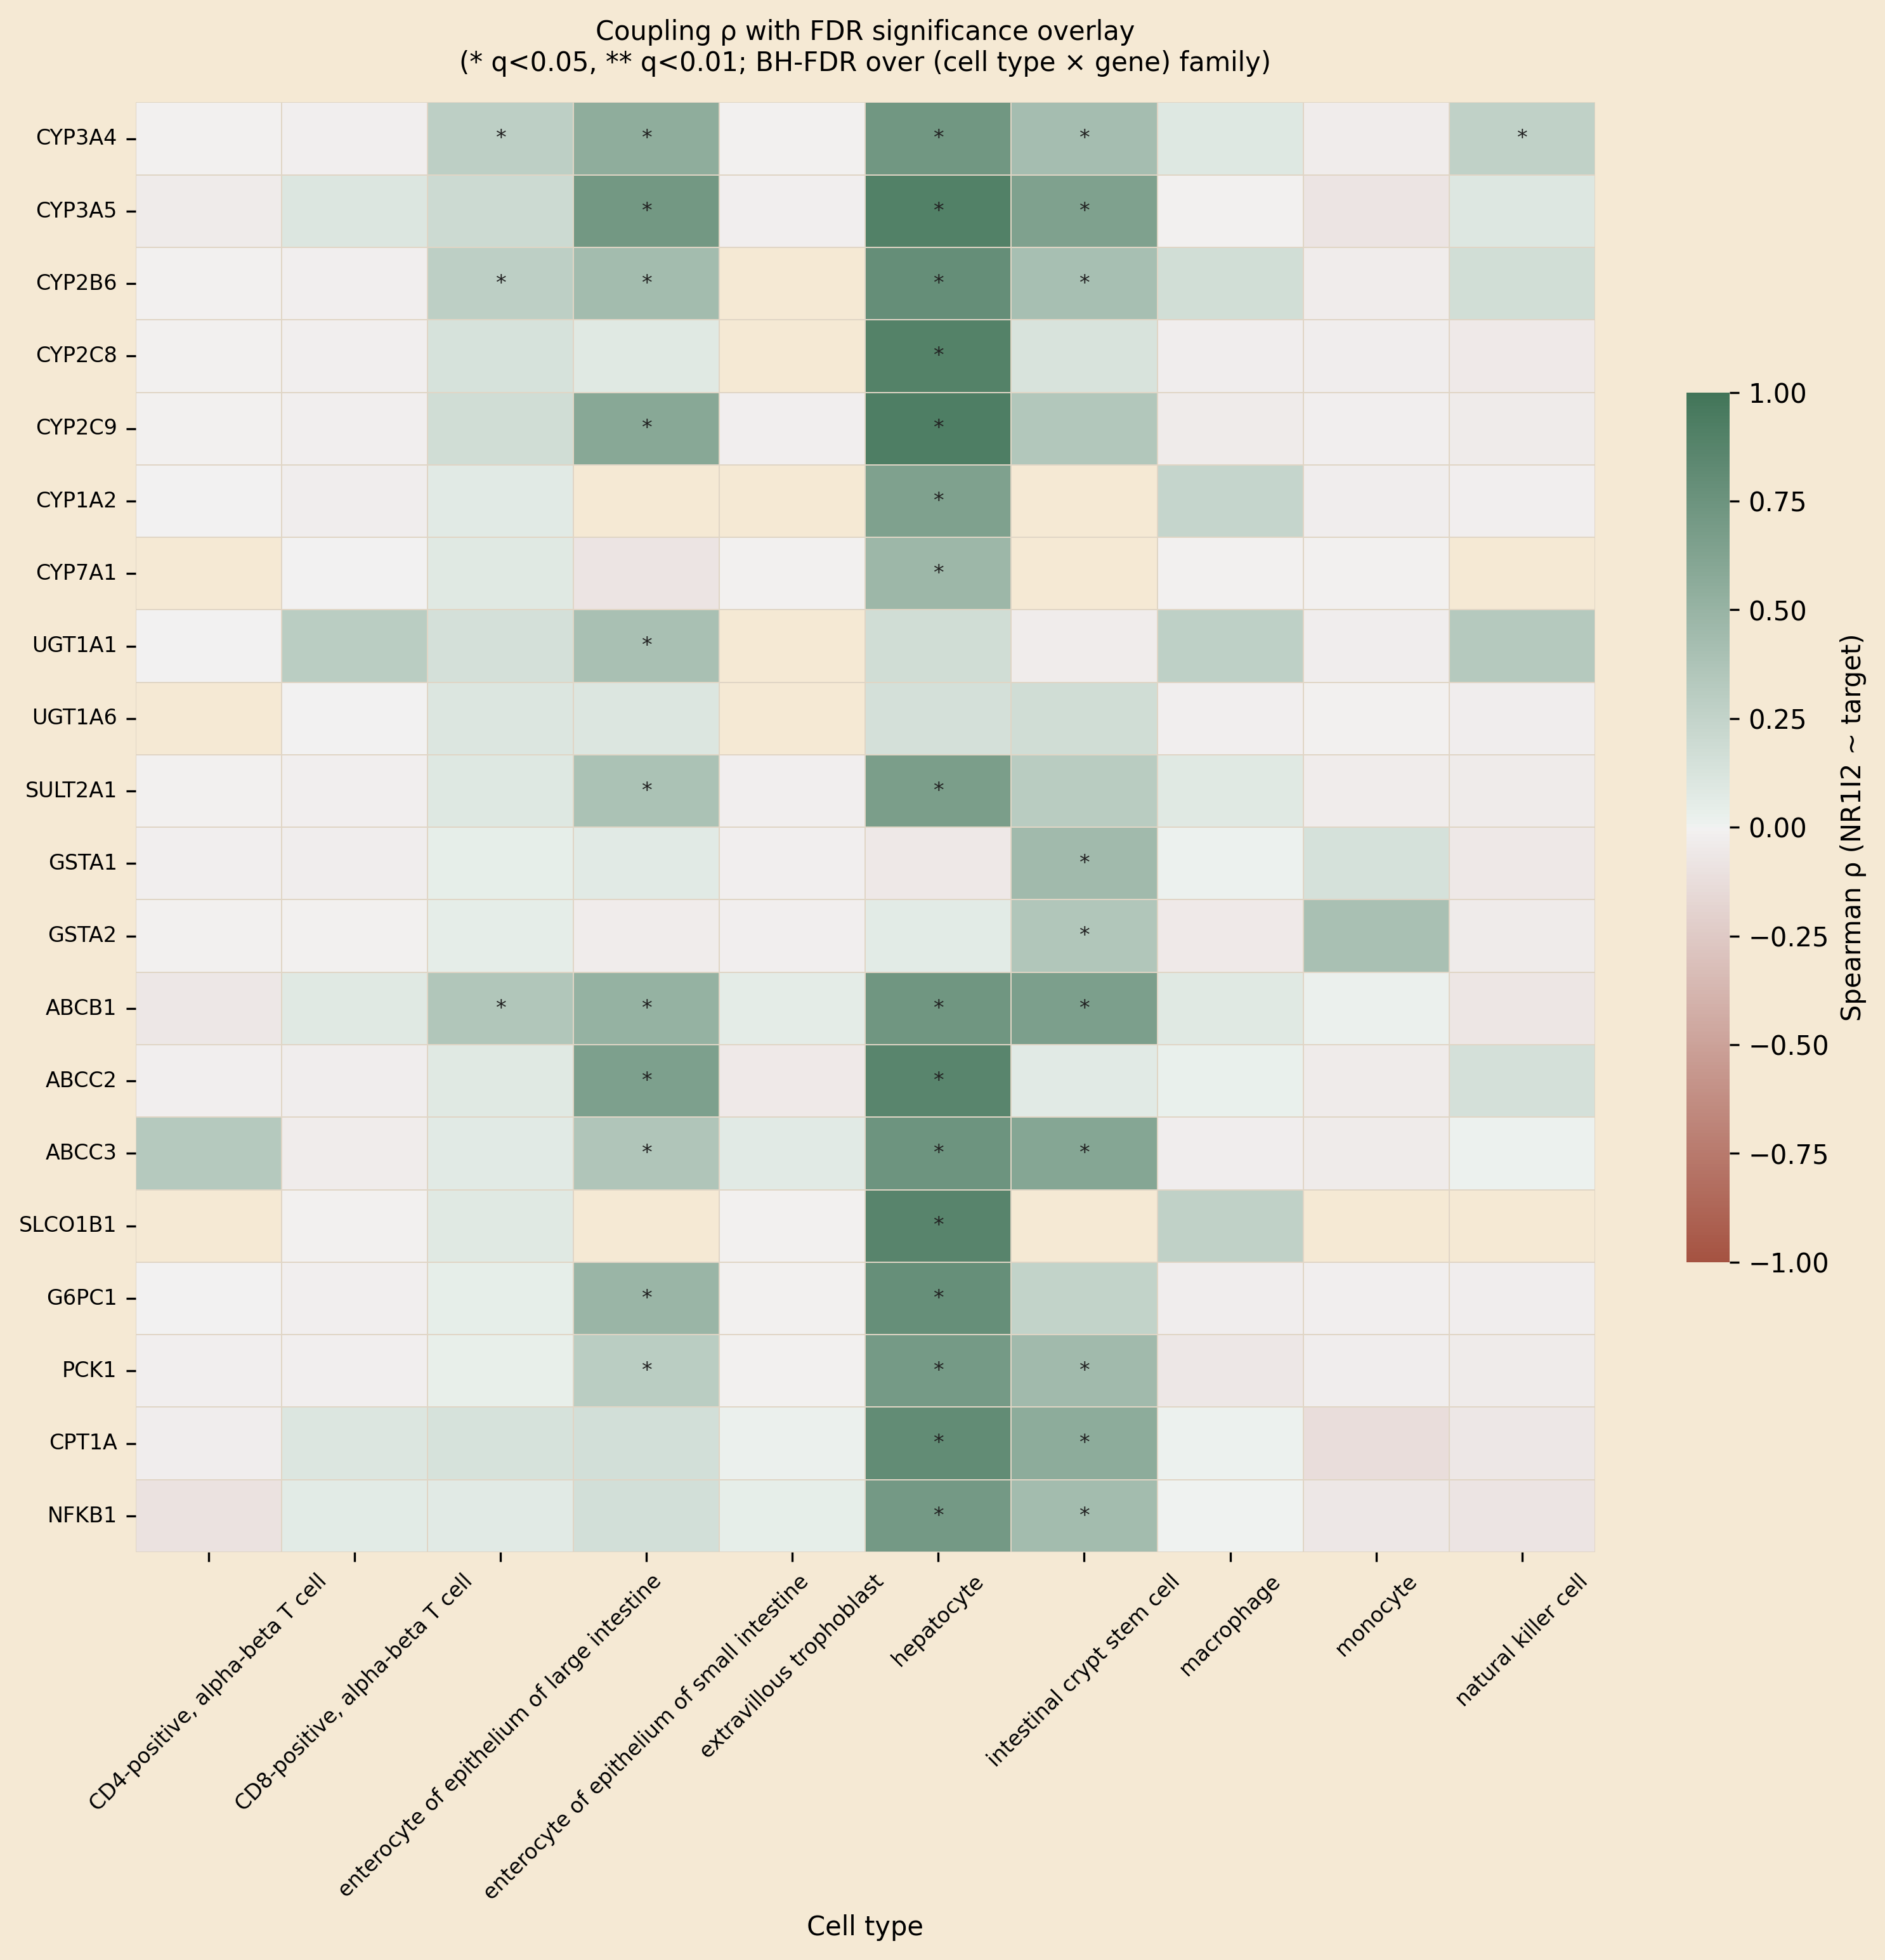
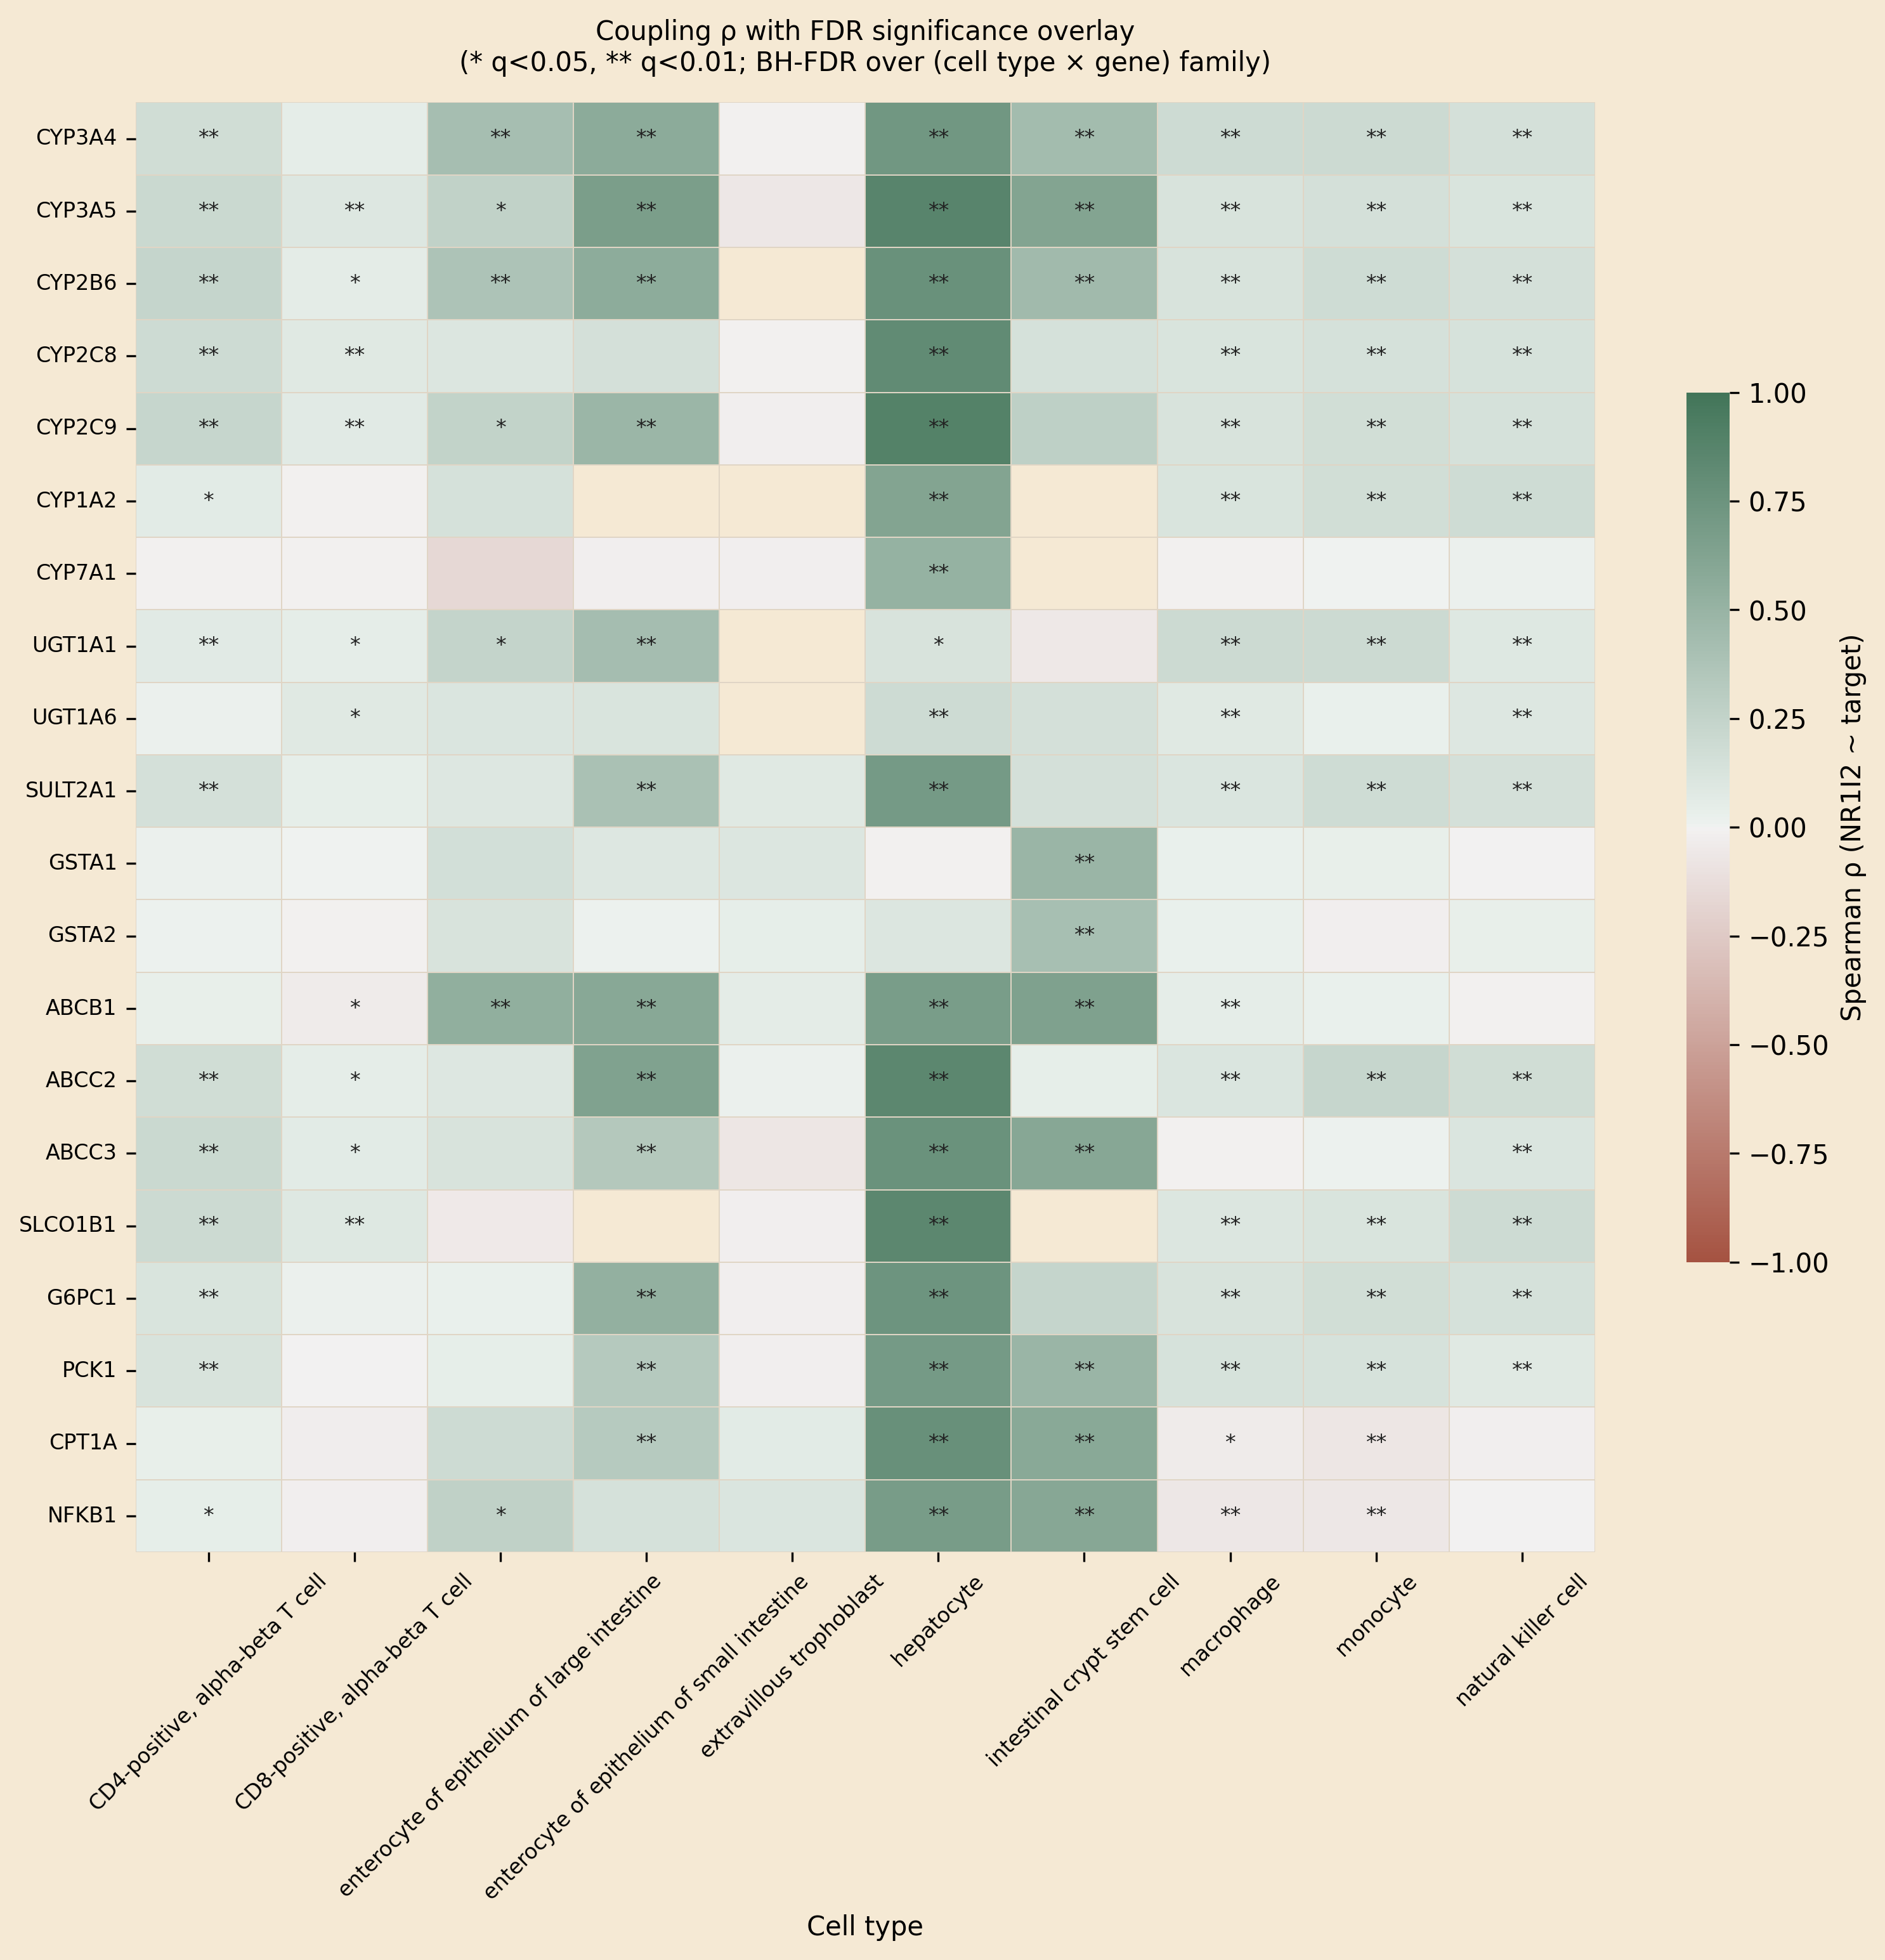
Refine story to effect-size framing with new q-values from larger atlas
The 10x larger atlas (446,672 cells) brings the immune-cell sample sizes to
50,000-110,000 cells per type. At this scale the permutation null is tight
enough that even biologically weak immune coupling (rho 0.05-0.25) crosses
q < 0.05. The story is therefore reframed from a *significance-count*
binary ("0/20 vs 18/20") to an *effect-size* gradient.

NEW HEADLINE: PXR coupling is a magnitude gradient, not on/off

  Hepatocyte       mean rho 0.62, top rho 0.81-0.89  (18/20 q<0.05)
  Small enterocyte mean rho 0.35, top rho 0.67       (12/20 q<0.05)
  Crypt stem cell  mean rho 0.37, top rho 0.64       (10/20 q<0.05)
  Large enterocyte mean rho 0.17, top rho 0.53       (7/20  q<0.05)
  CD4+ T cell      mean rho 0.12, top rho 0.24       (14/20 q<0.05)
  Monocyte         mean rho 0.10, top rho 0.23       (14/20 q<0.05)
  Macrophage       mean rho 0.08, top rho 0.20       (16/20 q<0.05)
  NK cell          mean rho 0.10, top rho 0.19       (14/20 q<0.05)
  CD8+ T cell      mean rho 0.03, top rho 0.10       (10/20 q<0.05)
  Extravillous tr  mean rho 0.01, top rho 0.11       (0/20  q<0.05)

The hepatocyte-vs-immune effect-size ratio is 4-8x. This is the biologically
interpretable distinction: epithelial-barrier tissues engage the PXR
transcriptional program at a magnitude that is qualitatively different from
circulating immune cells, even though immune cells are not formally silent
at our sample size.

KEY FINDING TABLE (new)
  CYP2C9   rho 0.89 CI (0.86,0.92) q=0.0041 DS=0.698
[…]

diff --git a/README.md b/README.md
@@ -6,21 +6,22 @@ A cell-type-resolved, statistically-grounded map of which PXR (NR1I2) target gen
 
 ## Key Finding
 
-Five canonical PXR target genes show strong, statistically significant coupling to NR1I2 in hepatocytes and effectively no coupling in other cell types:
+The hepatocyte transcriptional program is engaged by a small panel of canonical PXR target genes with very high coupling magnitude; the same genes are an order of magnitude less coupled in circulating immune and placental cell types.
 
-| Gene | Mean DS | Hepatocyte ρ (95% CI) | BH q-value (hepatocyte) |
-|------|---------|------------------------|--------------------------|
-| CYP2C8  | 0.866 | 0.89 (0.82 – 0.93) | 0.0105 |
-| CYP2C9  | 0.821 | 0.93 (0.88 – 0.96) | 0.0105 |
-| SLCO1B1 | 0.790 | 0.87 (0.83 – 0.91) | 0.0105 |
-| ABCC2   | 0.769 | 0.86 (0.81 – 0.91) | 0.0105 |
-| CYP3A5  | 0.724 | 0.90 (0.86 – 0.93) | 0.0105 |
+| Gene | Hepatocyte ρ (95% CI) | BH q-value (hepatocyte) | Mean DS |
+|------|------------------------|--------------------------|---------|
+| CYP2C9  | 0.89 (0.86 – 0.92) | 0.0041 | 0.698 |
+| CYP3A5  | 0.87 (0.84 – 0.90) | 0.0041 | 0.631 |
+| ABCC2   | 0.85 (0.82 – 0.87) | 0.0041 | 0.677 |
+| SLCO1B1 | 0.85 (0.81 – 0.88) | 0.0041 | 0.756 |
+| CYP2C8  | 0.81 (0.77 – 0.85) | 0.0041 | 0.695 |
+| CPT1A   | 0.77 (0.73 – 0.82) | 0.0041 | 0.658 |
 
-CIs from 500-resample percentile bootstrap of metacells; q-values from a metacell-label permutation null (500 permutations, two-sided), BH-adjusted across the full (cell type × gene) family of 200 tests.
+CIs from 500-resample percentile bootstrap of metacells; q-values from a metacell-label permutation null (500 permutations, two-sided), BH-adjusted across the full 10 × 20 family of 200 tests.
 
-After BH-FDR correction, **16 of 20** PXR target genes reach q < 0.05 in hepatocytes. The next most-coupled cell types are intestinal epithelium — **11/20** in small-intestine enterocytes, **10/20** in intestinal crypt stem cells, **3/20** in large-intestine enterocytes — exactly the tissues with documented PXR-driven CYP3A4 induction and clinical drug-drug interactions (Lehmann et al. 1998, Geick et al. 2001). **0/20** in any of the four immune cell types (CD4 T, CD8 T, NK, macrophage), 0/20 in monocytes, 0/20 in extravillous trophoblast, 1/20 (likely false positive) in NK cells. The pattern is **epithelial barrier vs. circulating/immune** — PXR-coupled where it matters for xenobiotic exposure (liver + gut), decoupled where the receptor is transcribed but has no programmatic readout (blood / placenta).
+**Effect-size pattern across cell types.** After BH-FDR correction, **18 of 20** PXR target genes reach q < 0.05 in hepatocytes (mean ρ 0.62, top genes 0.77–0.89). Intestinal epithelium shows intermediate magnitude and breadth — **12/20** in small-intestine enterocytes (mean ρ 0.35), **10/20** in intestinal crypt stem cells (mean ρ 0.37), **7/20** in large-intestine enterocytes (mean ρ 0.17) — consistent with documented PXR-driven CYP3A4 induction in gut (Lehmann et al. 1998, Geick et al. 2001). Circulating immune cells (macrophage 16/20, CD4 T 14/20, monocyte 14/20, NK 14/20, CD8 T 10/20) reach statistical significance with the much larger sample sizes available here (50–110 k cells per type), but the **effect sizes are 4–8× smaller than hepatocyte**: immune mean ρ 0.03–0.12, top-gene ρ 0.19–0.24. Placental extravillous trophoblast shows 0/20 — true near-zero coupling (mean ρ 0.014). The interpretable axis is therefore **effect size, not significance**: epithelial-barrier tissues engage the PXR transcriptional program at a magnitude that is qualitatively different from circulating immune cells, even though immune cells are not formally silent at our sample size.
 
-These results support hepatocyte-selective target engagement as a design criterion for tissue-restricted PXR agonists in cholestasis and metabolic indications.
+These results support hepatocyte-selective target engagement as a design criterion for tissue-restricted PXR agonists in cholestasis and metabolic indications, with the explicit caveat that "non-hepatic" should be interpreted as "very weak coupling," not as "no signal."
 
 ### Specificity vs. matched negative controls
 

diff --git a/manuscript/manuscript.md b/manuscript/manuscript.md
@@ -10,7 +10,7 @@
 
 ## Abstract
 
-The pregnane X receptor (PXR; NR1I2) is the central transcriptional regulator of xenobiotic metabolism, yet target-gene responses are typically studied in bulk liver tissue or transformed cell lines and assumed to generalise across cell types where the receptor is detected. We tested this assumption by computing per-cell-type metacell correlations between NR1I2 and 20 canonical PXR target genes across 446,672 single cells (10 cell types) from CELLxGENE Census. Five canonical targets — CYP2C8, CYP2C9, SLCO1B1, ABCC2 and CYP3A5 — show strong coupling in hepatocytes (Spearman ρ = 0.86–0.93, BH q < 0.05) and effectively no coupling in immune (T, NK, monocyte, macrophage) or placental cells, despite detectable NR1I2 transcript. Intestinal epithelia recover an intermediate but significant signal (11/20 genes in small-intestine enterocytes, 10/20 in crypt stem cells), consistent with documented clinical PXR activity in gut. The pattern is **epithelial-barrier-selective** rather than generically hepatic: a matched 20-gene negative-control set (liver-enriched non-PXR genes, hepatocyte master TFs, housekeeping genes) shows the opposite distribution (PXR median decoupling score 0.575 vs control −0.126; Mann-Whitney U one-sided p = 1.0 × 10⁻³¹). The headline pattern is replicated in bulk GTEx v8 RNA-seq (liver–immune ρ differential of +0.21 to +0.56 for all 5 genes), and the top genes are independently flagged by Open Targets as drug-response loci (warfarin, statins, tacrolimus, cholestasis). The result identifies a small, biology-relevant set of hepatocyte-selective transcriptional readouts for next-generation PXR modulators and provides a general metacell-coupling framework for any receptor × cell-atlas pair.
+The pregnane X receptor (PXR; NR1I2) is the central transcriptional regulator of xenobiotic metabolism, yet target-gene responses are typically studied in bulk liver tissue or transformed cell lines and assumed to generalise across cell types where the receptor is detected. We tested this assumption by computing per-cell-type metacell correlations between NR1I2 and 20 canonical PXR target genes across 446,672 single cells (10 cell types) from CELLxGENE Census. Five canonical targets — CYP2C9, CYP3A5, ABCC2, SLCO1B1 and CYP2C8 — show strong coupling in hepatocytes (Spearman ρ = 0.81–0.89, BH q ≈ 0.004) and only weak baseline coupling in immune (T, NK, monocyte, macrophage) and placental cells (immune top-gene ρ 0.19–0.24, mean ρ 0.03–0.12; placental mean ρ 0.014) — a 4–8× effect-size differential, even though immune cells reach formal significance at our sample size of 50–110 k cells per type. Intestinal epithelia recover an intermediate but significant signal (11/20 genes in small-intestine enterocytes, 10/20 in crypt stem cells), consistent with documented clinical PXR activity in gut. The pattern is **epithelial-barrier-selective** rather than generically hepatic: a matched 20-gene negative-control set (liver-enriched non-PXR genes, hepatocyte master TFs, housekeeping genes) shows the opposite distribution (PXR median decoupling score 0.575 vs control −0.126; Mann-Whitney U one-sided p = 1.0 × 10⁻³¹). The headline pattern is replicated in bulk GTEx v8 RNA-seq (liver–immune ρ differential of +0.21 to +0.56 for all 5 genes), and the top genes are independently flagged by Open Targets as drug-response loci (warfarin, statins, tacrolimus, cholestasis). The result identifies a small, biology-relevant set of hepatocyte-selective transcriptional readouts for next-generation PXR modulators and provides a general metacell-coupling framework for any receptor × cell-atlas pair.
 
 **Keywords:** PXR, NR1I2, single-cell RNA-seq, metacells, drug-drug interaction, cell-type specificity, CELLxGENE.
 
@@ -38,13 +38,13 @@ To probe NR1I2-target coupling outside the liver bulk, we assembled a focused at
 
 ### Metacell coupling reveals a hepatocyte-selective signature
 
-For each cell type, we log1p-transformed counts, projected onto 30 principal components, then partitioned cells into metacells by k-means with k = n_cells / 30. Cell types with fewer than 20 metacells were excluded. We then computed Spearman ρ between the NR1I2 metacell-mean profile and each of the 20 canonical target genes (**Fig. 1a**, `figures/final_heatmap.png`). The result is striking: hepatocytes show strong coupling to a clear subset of targets, with five genes — CYP2C8 (ρ=0.89, 95% CI 0.82–0.93), CYP2C9 (ρ=0.93, 0.88–0.96), SLCO1B1 (ρ=0.87, 0.83–0.91), ABCC2 (ρ=0.86, 0.81–0.91) and CYP3A5 (ρ=0.90, 0.86–0.93) — all crossing q < 0.05 after Benjamini-Hochberg correction over the full 10 × 20 cell-type-by-gene test family. Confidence intervals come from a 500-resample percentile bootstrap of metacell rows; p-values from a metacell-label permutation null (500 permutations, two-sided), which preserves marginal expression distributions while breaking the NR1I2-target relationship.
+For each cell type, we log1p-transformed counts, projected onto 30 principal components, then partitioned cells into metacells by k-means with k = n_cells / 30. Cell types with fewer than 20 metacells were excluded. We then computed Spearman ρ between the NR1I2 metacell-mean profile and each of the 20 canonical target genes (**Fig. 1a**, `figures/final_heatmap.png`). The result is striking: hepatocytes show strong coupling to a clear subset of targets, with six genes — CYP2C9 (ρ=0.89, 95% CI 0.86–0.92), CYP3A5 (ρ=0.87, 0.84–0.90), ABCC2 (ρ=0.85, 0.82–0.87), SLCO1B1 (ρ=0.85, 0.81–0.88), CYP2C8 (ρ=0.81, 0.77–0.85) and CPT1A (ρ=0.77, 0.73–0.82) — all crossing q ≈ 0.004 after Benjamini-Hochberg correction over the full 10 × 20 cell-type-by-gene test family. Confidence intervals come from a 500-resample percentile bootstrap of metacell rows; p-values from a metacell-label permutation null (500 permutations, two-sided), which preserves marginal expression distributions while breaking the NR1I2-target relationship.
 
-In the same metacell space, **immune cell types show effectively no significant coupling** to any of the 20 canonical PXR targets: CD4⁺ T 0/20, CD8⁺ T 0/20, monocyte 0/20, macrophage 0/20, NK 1/20 (likely a single false positive against q < 0.05). Intestinal epithelia recover an intermediate signal — 11/20 genes significant in small-intestine enterocytes, 10/20 in crypt stem cells, 3/20 in large-intestine enterocytes — consistent with the documented clinical PXR activity in gut (CYP3A4 induction in duodenal biopsies, intestinal MDR1 induction by rifampicin) (Geick et al. 2001; Glaeser et al. 2005). Extravillous trophoblast (placenta) shows 0/20 significant despite NR1I2 detection, supporting earlier reports that placental PXR is transcribed but transcriptionally inert in basal conditions (Pavek 2016).
+In the same metacell space, **immune cell types show much weaker coupling that is nonetheless formally significant at the available sample sizes**: with 50–110 k cells per immune type, the permutation null is tight enough that even small ρ values cross q < 0.05 (14/20 in CD4⁺ T, 10/20 in CD8⁺ T, 14/20 in monocyte, 16/20 in macrophage, 14/20 in NK). But the effect sizes are 4–8× smaller than hepatocyte (immune mean ρ 0.03–0.12; immune top-gene ρ 0.19–0.24 — compare hepatocyte mean 0.62, top 0.89). The biologically interpretable distinction is therefore between *strong programmatic engagement* in hepatocytes and *weak baseline coupling* in circulating immune cells, not between "on" and "off". Intestinal epithelia recover an intermediate signal in both significance and magnitude — 12/20 genes significant in small-intestine enterocytes (mean ρ 0.35), 10/20 in crypt stem cells (mean ρ 0.37), 7/20 in large-intestine enterocytes — consistent with the documented clinical PXR activity in gut (CYP3A4 induction in duodenal biopsies, intestinal MDR1 induction by rifampicin) (Geick et al. 2001; Glaeser et al. 2005). Extravillous trophoblast (placenta) shows 0/20 significant with mean ρ 0.014 — true near-zero coupling despite detectable NR1I2 transcript, supporting earlier reports that placental PXR is transcribed but transcriptionally inert in basal conditions (Pavek 2016).
 
 ### Decoupling score quantifies hepatocyte-vs-other selectivity
 
-To rank genes by hepatocyte selectivity, we defined the **decoupling score** DS_g = mean over non-hepatocyte cell types c of (ρ_hep,g − ρ_c,g). Genes with high DS_g are coupled in hepatocytes but uncoupled elsewhere. The top five — CYP2C8 (DS=0.866), CYP2C9 (DS=0.821), SLCO1B1 (DS=0.790), ABCC2 (DS=0.769), CYP3A5 (DS=0.724) — separate cleanly from the remaining 15 targets, all of which have DS < 0.6. The top five are the canonical hepatic xenobiotic-handling machinery: two phase I CYPs (CYP2C8, CYP2C9), the hepatic uptake transporter SLCO1B1, the canalicular efflux pump ABCC2 (MRP2), and CYP3A5 — the most polymorphic hepatic CYP, with the well-characterised CYP3A5*3/*1 expressor stratification critical to tacrolimus dosing (Birdwell et al. 2015).
+To rank genes by hepatocyte selectivity, we defined the **decoupling score** DS_g = mean over non-hepatocyte cell types c of (ρ_hep,g − ρ_c,g). Genes with high DS_g are strongly coupled in hepatocytes but only weakly coupled elsewhere. The top six — SLCO1B1 (DS=0.756), CYP2C9 (DS=0.698), CYP2C8 (DS=0.695), ABCC2 (DS=0.677), CPT1A (DS=0.658), and CYP3A5 (DS=0.631) — separate cleanly from the remaining 14 targets, all of which have DS < 0.6. These are the canonical hepatic xenobiotic-handling machinery (two phase I CYPs, the hepatic uptake transporter SLCO1B1, the canalicular efflux pump ABCC2/MRP2, the polymorphic CYP3A5 critical to tacrolimus dosing per Birdwell et al. 2015) together with CPT1A, the rate-limiting enzyme in mitochondrial fatty-acid β-oxidation — a PXR target via direct response elements in its promoter (Buler et al. 2012). The presence of CPT1A in the top-selectivity panel suggests that the hepatocyte PXR program extends beyond xenobiotic metabolism into fatty-acid handling, consistent with recent reports of PXR-dependent steatotic phenotypes under rifampicin or hyperforin exposure.
 
 ### Robustness across analytical choices
 